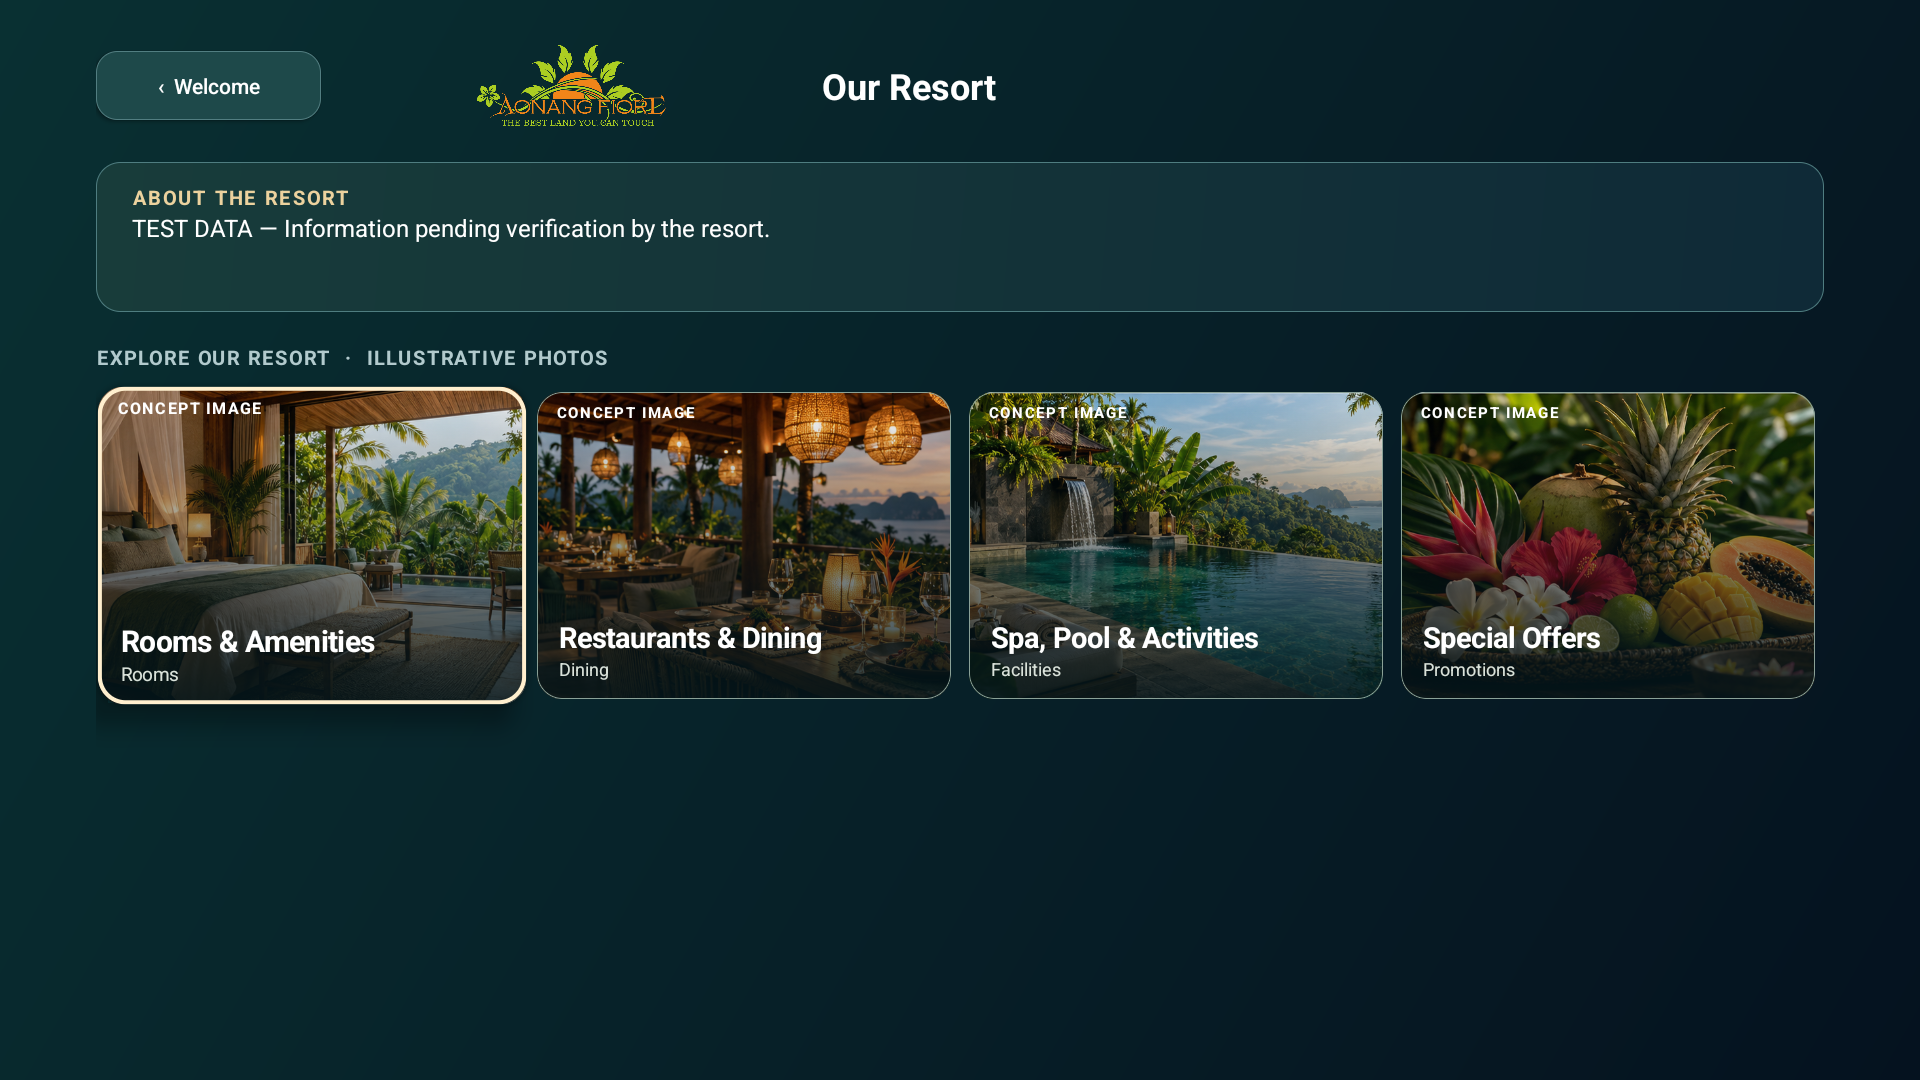
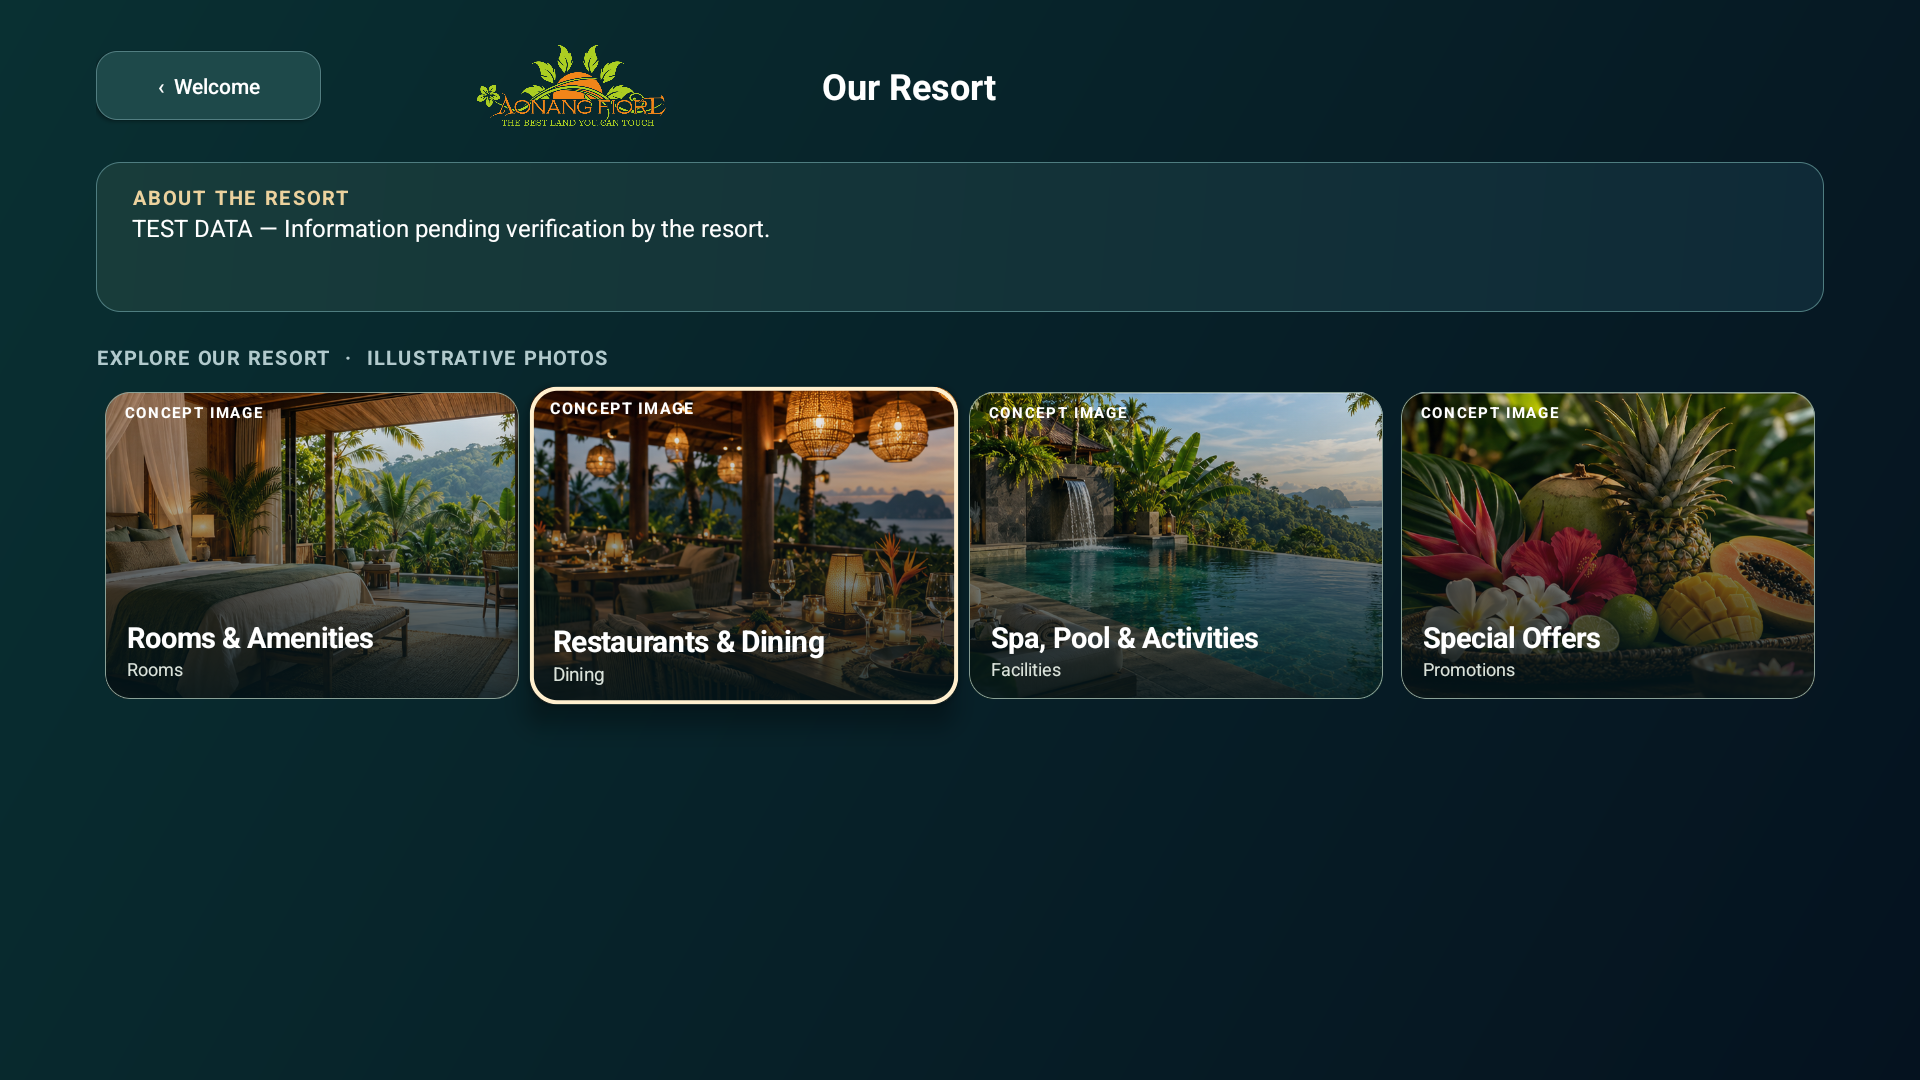
Restore About focus and refresh final emulator evidence

Changed region(s): [[0.0312, 0.3361, 0.5, 0.6722]]

diff --git a/android-client/src/main/java/net/velalab/tvhotel/MainActivity.kt b/android-client/src/main/java/net/velalab/tvhotel/MainActivity.kt
@@ -510,6 +510,7 @@ class MainActivity : Activity() {
         val aboutIndex = (0 until items.length()).firstOrNull {
             items.optJSONObject(it)?.optString("category")?.equals("Profile", true) == true
         }
+        var aboutView: View? = null
         if (aboutIndex != null) {
             val about = items.optJSONObject(aboutIndex)
             val description = about?.optString("description", "TEST DATA — Resort information pending.")
@@ -537,6 +538,7 @@ class MainActivity : Activity() {
             root.addView(box, LinearLayout.LayoutParams(-1, dp(fitHeight(100, 82))).apply {
                 bottomMargin = dp(15)
             })
+            aboutView = box
         }
         root.addView(textLine("EXPLORE OUR RESORT  ·  ILLUSTRATIVE PHOTOS", 13f, true).apply {
             setTextColor(muted)
@@ -584,9 +586,9 @@ class MainActivity : Activity() {
             }
             root.addView(row)
         }
-        (cards[lastSectionIndex] ?: cards.values.firstOrNull())?.post {
-            (cards[lastSectionIndex] ?: cards.values.firstOrNull())?.requestFocus()
-        }
+        val target = if (lastSectionIndex == aboutIndex) aboutView
+            else cards[lastSectionIndex] ?: cards.values.firstOrNull() ?: aboutView
+        target?.let { focus -> focus.post { focus.requestFocus() } }
     }
 
     private fun showStaffTools() {

diff --git a/docs/FIORE-PREMIUM-UI-QA.md b/docs/FIORE-PREMIUM-UI-QA.md
@@ -27,8 +27,8 @@ The 4K AVD exposes a 3840×2160 physical display but Android TV applies a 1920×
 
 Performed with `adb shell input keyevent` and `uiautomator dump` on the 4K AVD:
 
-1. Home Right focused Our Resort; OK opened Our Resort and focused Rooms & amenities.
-2. Right focused Restaurants & Dining; OK opened its detail. Back returned focus to Restaurants & Dining. Another Back returned Home with Our Resort focused.
+1. Home Right focused Our Resort; OK opened Our Resort and focused About the Resort. OK opened About; Back restored focus to About.
+2. Down reached the photo-card row; D-pad navigation reached Restaurants & Dining. OK opened its detail. Back returned focus to Restaurants & Dining. Another Back returned Home with Our Resort focused.
 3. Home Down reached Quick Apps. Holding OK on Disney+ opened Customize Quick Apps with the same slot focused.
 4. Holding OK on Guest Information opened Staff Tools with Edit Apps focused. Back returned Home.
 
